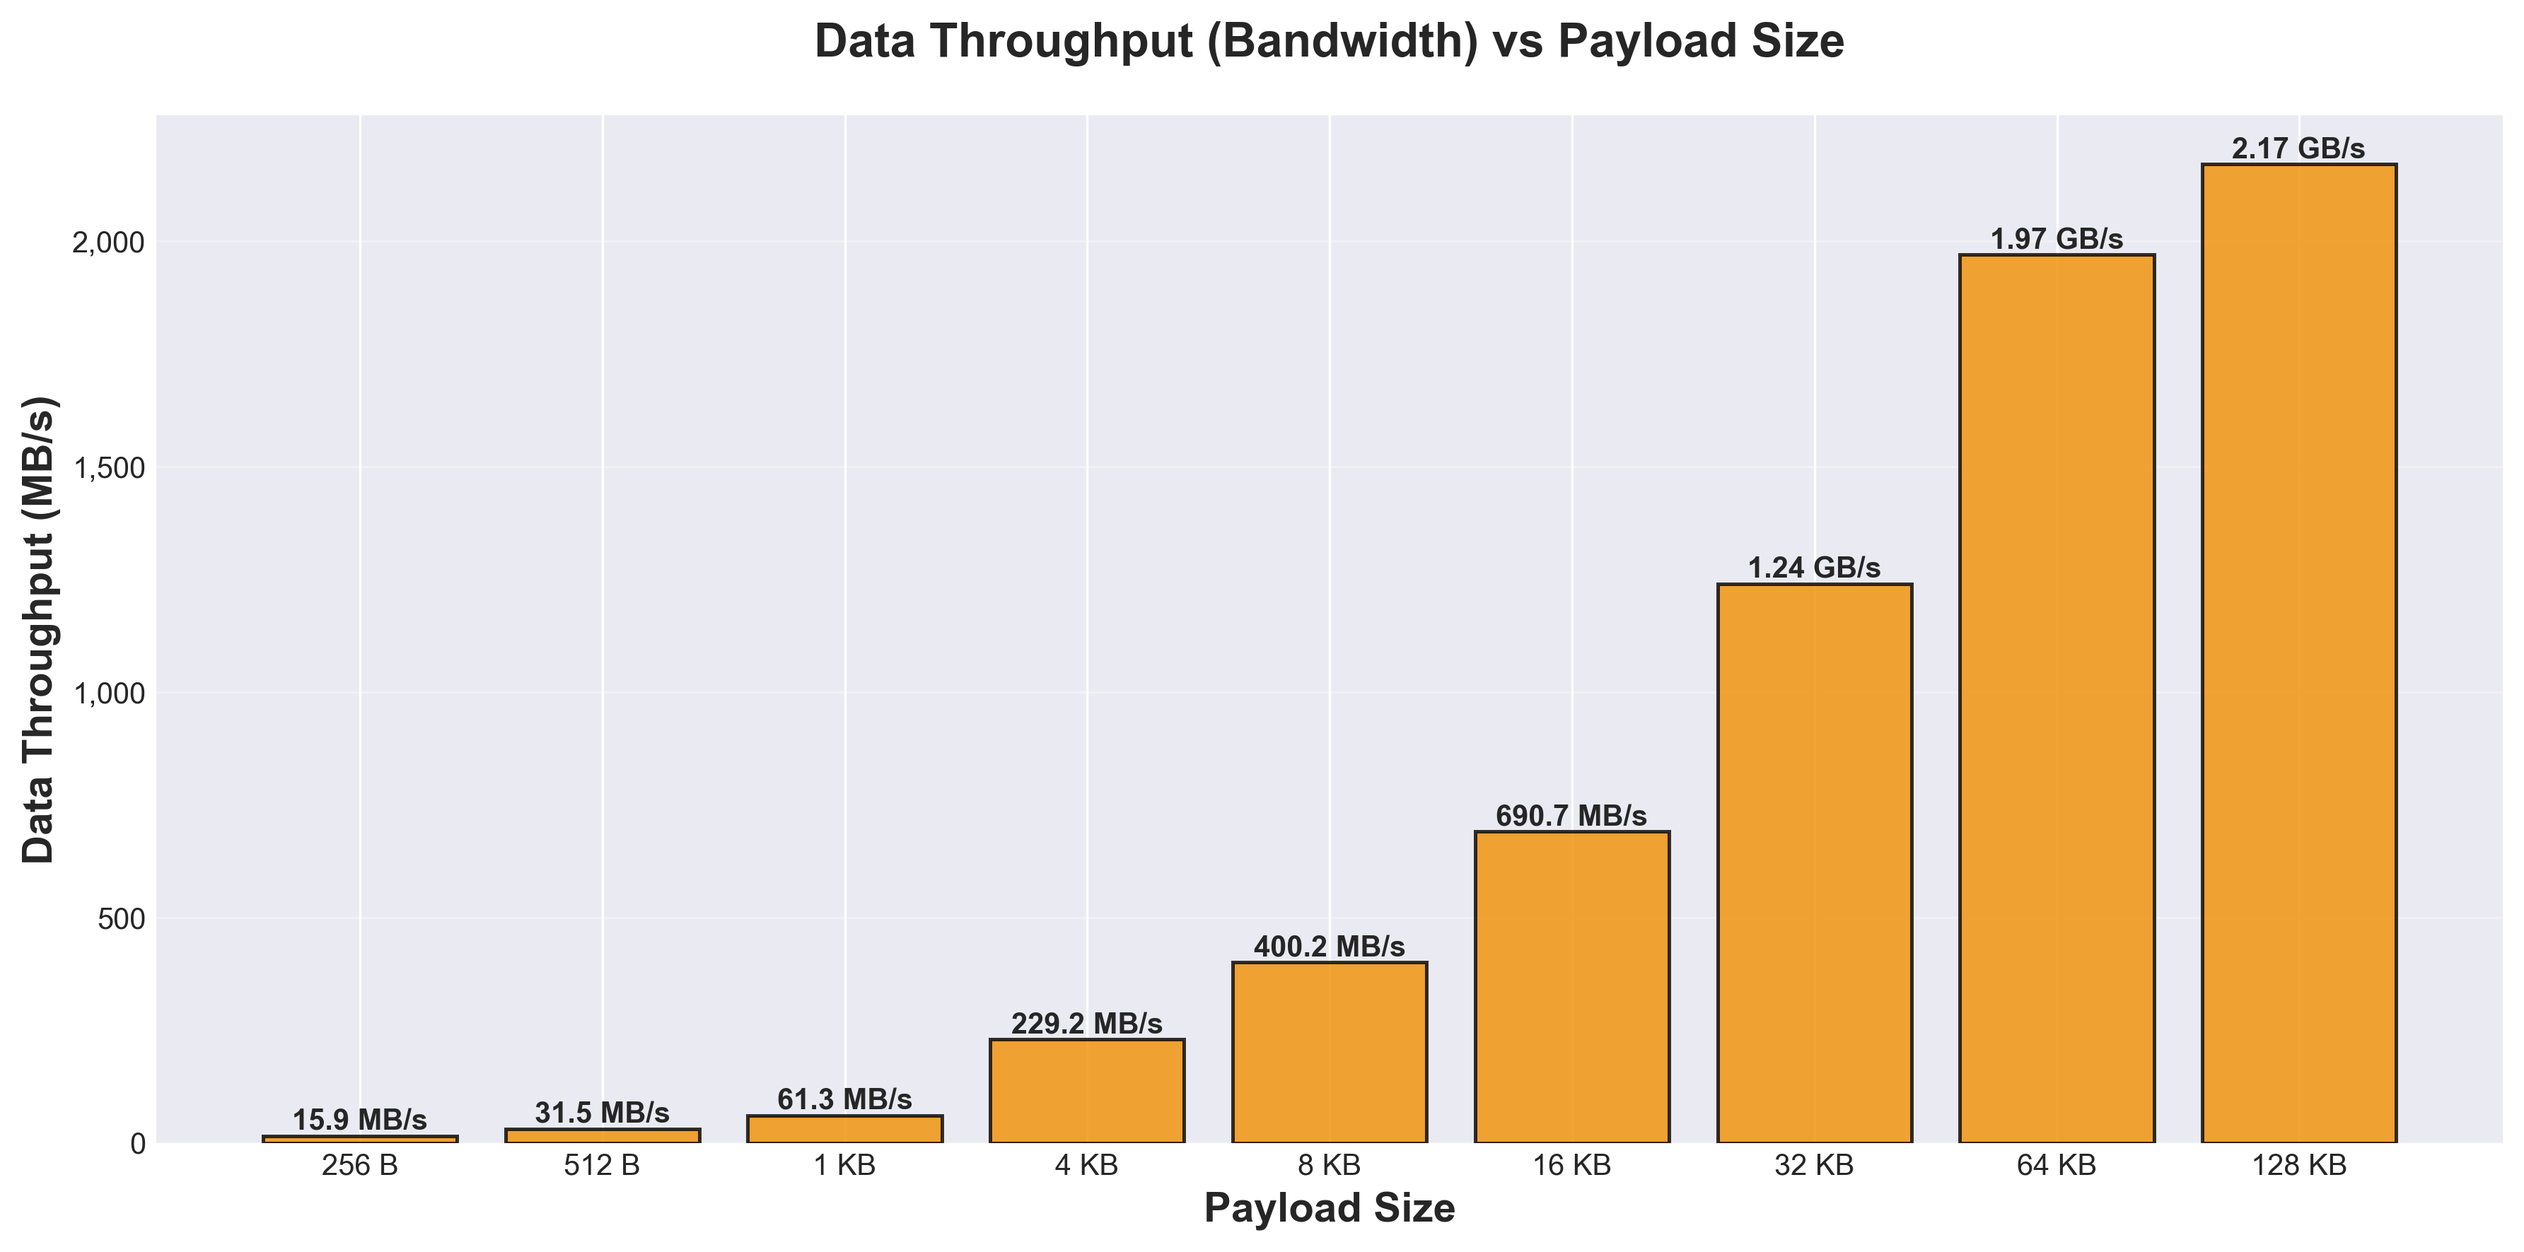
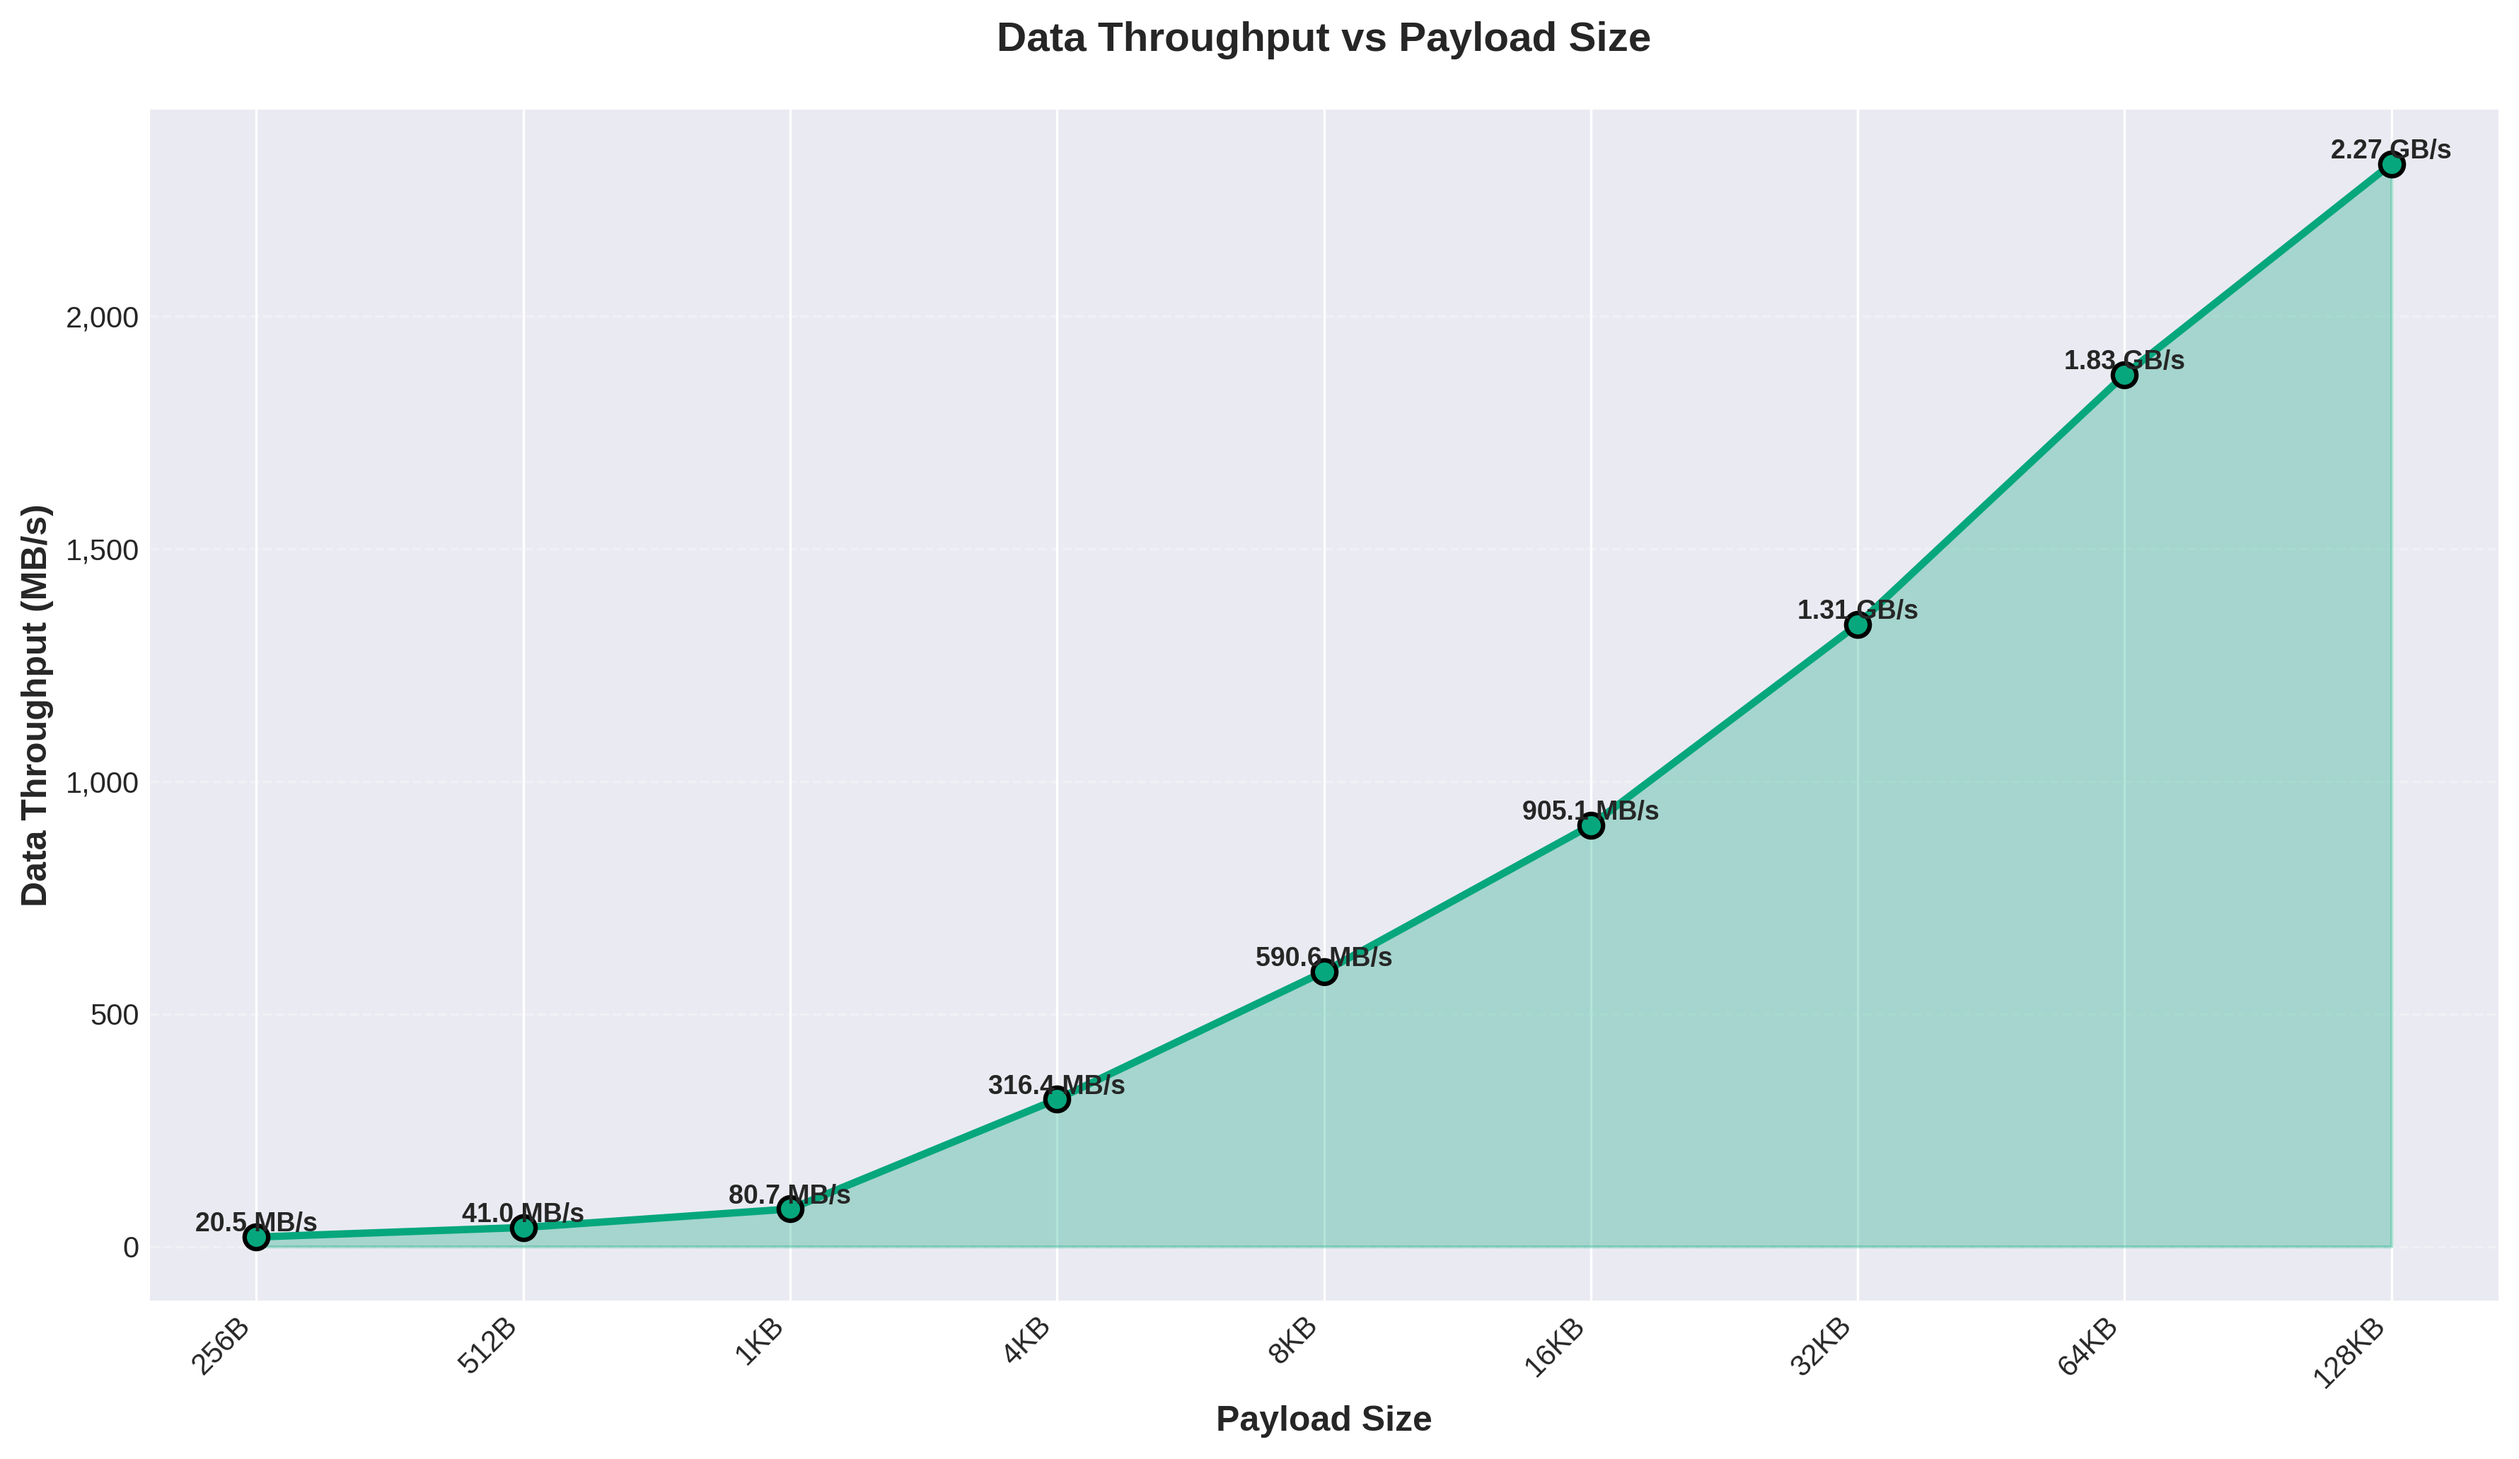
docs: update benchmark results (#143)

diff --git a/docs/BENCHMARK.md b/docs/BENCHMARK.md
@@ -6,8 +6,8 @@ This document contains performance benchmarks for Narwhal's pub/sub messaging sy
 
 ### Hardware
 
-- **Model**: MacBook Pro, M1, 2020
-- **Memory**: 16 GB
+- **CPU**: Intel(R) Core(TM) Ultra 9 275HX (24 cores)
+- **Memory**: 32 GB
 
 ### Configuration
 
@@ -54,15 +54,15 @@ All benchmarks were run with 1 producer and 1 consumer for 60 seconds.
 
 | Payload Size | Throughput (msg/s) | Data Throughput | Mean Latency | P50 | P95 | P99 | Total Messages |
 |--------------|-------------------:|----------------:|-------------:|----:|----:|----:|---------------:|
-| 256 B        | 65,353            | 15.9 MB/s       | 1.01ms       | 1ms | 2ms | 2ms | 3,921,180      |
-| 512 B        | 64,505            | 31.5 MB/s       | 0.99ms       | 1ms | 2ms | 2ms | 3,872,423      |
-| 1 KB         | 62,770            | 61.3 MB/s       | 1.03ms       | 1ms | 2ms | 2ms | 3,768,233      |
-| 4 KB         | 58,883            | 229.2 MB/s      | 1.13ms       | 1ms | 2ms | 3ms | 3,534,904      |
-| 8 KB         | 51,108            | 400.2 MB/s      | 1.39ms       | 1ms | 2ms | 3ms | 3,068,092      |
-| 16 KB        | 44,244            | 690.7 MB/s      | 1.69ms       | 2ms | 3ms | 4ms | 2,656,080      |
-| 32 KB        | 40,618            | 1.24 GB/s       | 1.89ms       | 2ms | 3ms | 4ms | 2,438,397      |
-| 64 KB        | 32,184            | 1.97 GB/s       | 2.53ms       | 2ms | 4ms | 5ms | 1,932,054      |
-| 128 KB       | 17,405            | 2.17 GB/s       | 5.20ms       | 5ms | 8ms | 9ms | 1,045,028      |
+| 256 B        | 83,962            | 20.5 MB/s       | 0.67ms       | 1ms | 1ms | 2ms | 5,054,643      |
+| 512 B        | 83,892            | 41.0 MB/s       | 0.66ms       | 1ms | 1ms | 2ms | 5,051,865      |
+| 1 KB         | 82,688            | 80.7 MB/s       | 0.70ms       | 1ms | 1ms | 2ms | 4,977,980      |
+| 4 KB         | 81,007            | 316.4 MB/s      | 0.78ms       | 1ms | 1ms | 2ms | 4,877,287      |
+| 8 KB         | 75,594            | 590.6 MB/s      | 0.93ms       | 1ms | 1ms | 2ms | 4,551,031      |
+| 16 KB        | 57,930            | 905.1 MB/s      | 1.17ms       | 1ms | 2ms | 4ms | 3,487,746      |
+| 32 KB        | 42,784            | 1.31 GB/s       | 1.86ms       | 2ms | 3ms | 5ms | 2,574,740      |
+| 64 KB        | 29,973            | 1.83 GB/s       | 2.81ms       | 3ms | 5ms | 6ms | 1,804,239      |
+| 128 KB       | 18,614            | 2.27 GB/s       | 4.83ms       | 5ms | 8ms | 9ms | 1,120,856      |
 
 ### Visual Performance Analysis
 
@@ -70,7 +70,7 @@ All benchmarks were run with 1 producer and 1 consumer for 60 seconds.
 
 ![Message Throughput vs Payload Size](benchmark_msg_throughput.png)
 
-This graph shows how message throughput (messages per second) varies with payload size. Peak performance is achieved with small to medium payloads (256B-512B), delivering over 65,000 messages per second.
+This graph shows how message throughput (messages per second) varies with payload size. Peak performance is achieved with small to medium payloads (256B-512B), delivering over 83,000 messages per second.
 
 #### Latency
 
@@ -82,39 +82,15 @@ This graph compares mean and P99 latency across different payload sizes. Latency
 
 ![Data Throughput vs Payload Size](benchmark_data_throughput.png)
 
-This graph illustrates the actual data throughput in MB/s. While message rate decreases with larger payloads, the overall bandwidth increases significantly, reaching over 2GB/s with 128KB payloads.
+This graph illustrates the actual data throughput in MB/s. While message rate decreases with larger payloads, the overall bandwidth increases significantly, reaching over 2.2GB/s with 128KB payloads.
 
 ### Key Observations
 
-1. **Peak Throughput**: Achieved with 512-byte payloads at ~64,505 messages/second
-2. **Consistent Low Latency**: Sub-millisecond mean latency maintained across small to medium payload sizes (512B - 1KB)
-3. **Payload Size Impact**: As payload size increases, throughput decreases and latency increases, which is expected due to larger data transfers
-4. **Latency Stability**: P99 latency remains very low (2-9ms) across all payload sizes, indicating consistent performance
+1. **Peak Throughput**: Achieved with 256-byte payloads at ~83,962 messages/second
+2. **Consistent Low Latency**: Sub-millisecond mean latency maintained across small to medium payload sizes (256B - 8KB)
+3. **Payload Size Impact**: As payload size increases, message throughput decreases while data throughput increases, which is expected due to larger data transfers
+4. **Latency Stability**: P99 latency remains very low (1-9ms) across all payload sizes, indicating consistent performance
 5. **Zero Errors**: All benchmarks completed without any message loss or errors
-
-## Running Your Own Benchmarks
-
-To run your own benchmarks:
-
-1. **Start the Narwhal server** with appropriate configuration:
-   ```bash
-   cargo run --bin narwhal --release -- --config examples/config/c2s-benchmark.toml
-   ```
-
-2. **Run the benchmark tool** with your desired parameters:
-   ```bash
-   ./target/release/narwhal-bench \
-     --producers <N> \
-     --consumers <M> \
-     --duration <TIME> \
-     --max-payload-size <BYTES>
-   ```
-
-3. **Consider these factors** when interpreting results:
-   - Hardware specifications (CPU, memory, network)
-   - Server configuration (rate limits, buffer sizes)
-   - Network conditions (local vs. remote, latency)
-   - Concurrent load and system resources
 
 ## Notes
 
@@ -123,3 +99,4 @@ To run your own benchmarks:
 - The benchmark tool generates random payloads up to the specified maximum size
 - Server configuration used the `c2s-benchmark.toml` profile with rate limiting disabled
 - Results may vary based on hardware, OS, and system load
+- The benchmark scripts (`run_benchmarks.sh` and `generate_benchmark_plots.py`) are available in the `docs/` directory for easy reproduction
